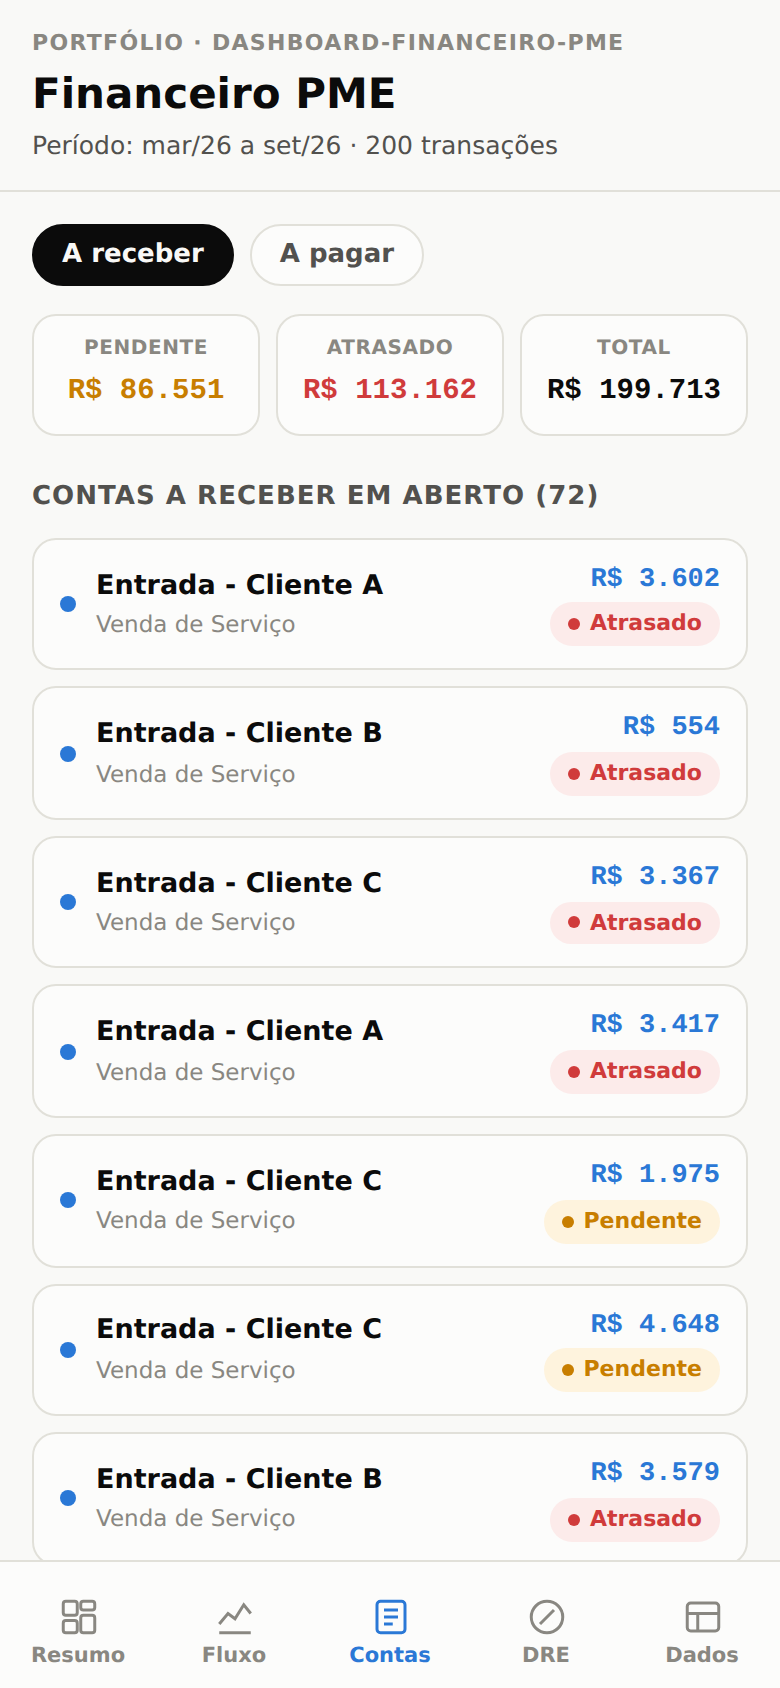
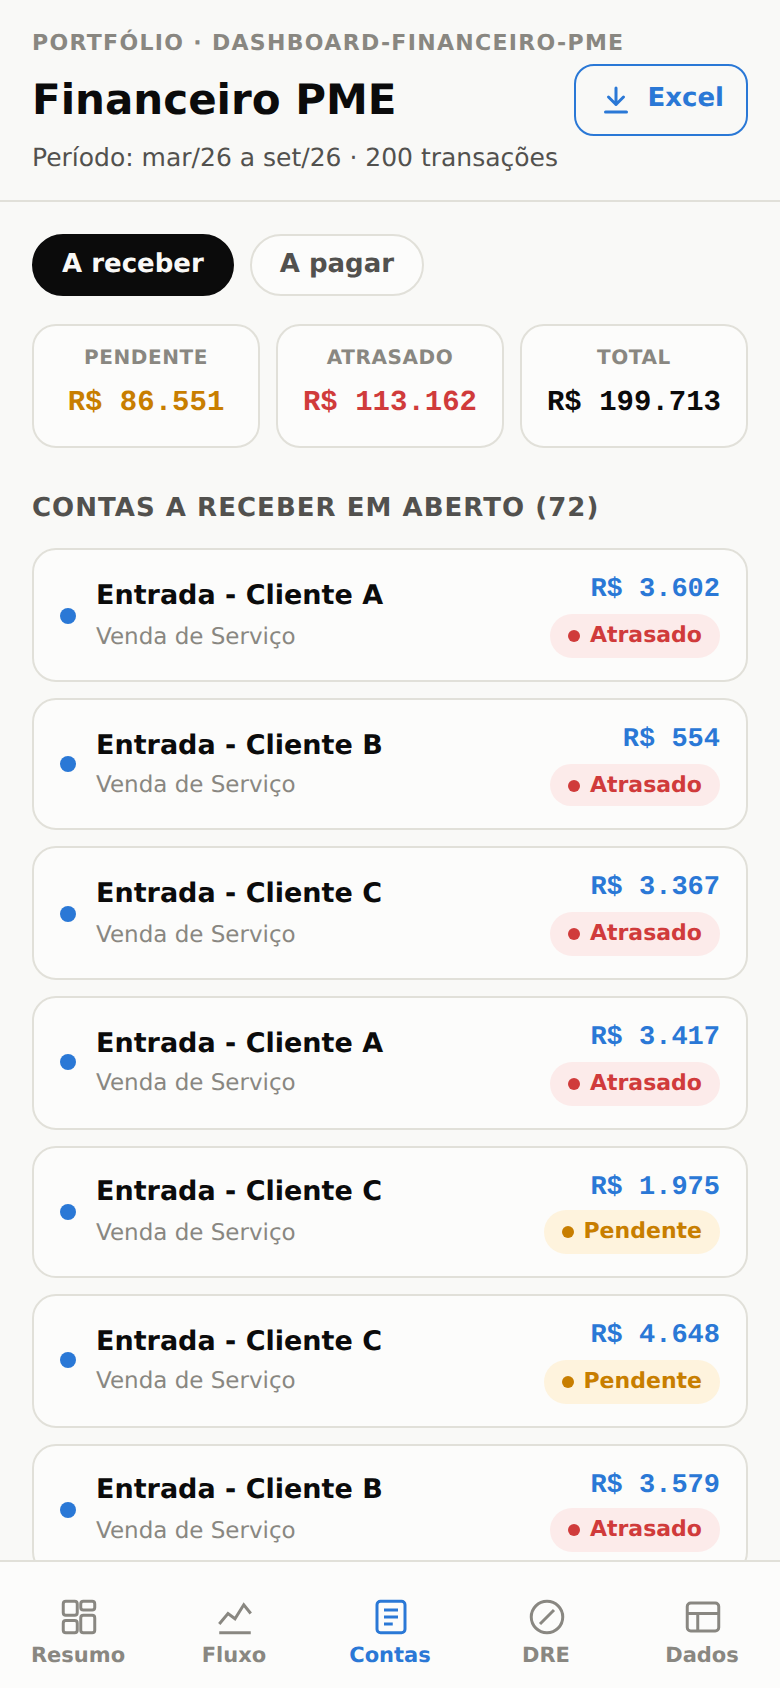
Adiciona botão pra baixar a planilha Excel no painel publicado
A planilha era uma das entregas principais, mas só existia no
repositório. Agora vai também pra public/ e o painel tem um botão
"Excel" no topo. Pra o CI continuar conferindo public/, a planilha passa
a ser gerada com datas fixas (idêntica a cada execução) e as versões de
pandas/openpyxl ficam fixadas. Screenshots e README atualizados.

Claude-Session: https://claude.ai/code/session_01SNGhJTcjeFguq5sm6ngrpK

diff --git a/public/index.html b/public/index.html
@@ -67,6 +67,14 @@
     color:var(--ink-muted); font-weight:600; margin-bottom:2px;
   }
   header.top h1{font-size:21px; font-weight:800;}
+  .titulo-linha{display:flex; align-items:center; justify-content:space-between; gap:10px; margin-top:2px;}
+  .baixar{
+    flex:none; display:inline-flex; align-items:center; gap:7px; text-decoration:none;
+    font:700 13px/1 var(--font-body); color:var(--blue);
+    border:1.5px solid var(--blue); border-radius:10px; padding:8px 11px;
+  }
+  .baixar:hover{background:var(--blue-soft);}
+  .baixar svg{width:18px; height:18px; stroke:currentColor; fill:none; stroke-width:2; stroke-linecap:round; stroke-linejoin:round;}
   header.top .period{font-size:12.5px; color:var(--ink-2); margin-top:2px;}
 
   section.view{padding:16px 16px 28px; max-width:640px; margin:0 auto;}
@@ -227,7 +235,14 @@
 
 <header class="top">
   <div class="eyebrow">Portfólio · dashboard-financeiro-pme</div>
-  <h1>Financeiro PME</h1>
+  <div class="titulo-linha">
+    <h1>Financeiro PME</h1>
+    <a class="baixar" href="dashboard_financeiro.xlsx" download
+       aria-label="Baixar a planilha Excel" title="Baixar a planilha Excel (fórmulas editáveis)">
+      <svg viewBox="0 0 24 24" aria-hidden="true"><path d="M12 4v11M7 10l5 5 5-5M5 20h14"/></svg>
+      <span>Excel</span>
+    </a>
+  </div>
   <div class="period" id="period-label">—</div>
 </header>
 

diff --git a/scripts/dashboard_template.html b/scripts/dashboard_template.html
@@ -67,6 +67,14 @@
     color:var(--ink-muted); font-weight:600; margin-bottom:2px;
   }
   header.top h1{font-size:21px; font-weight:800;}
+  .titulo-linha{display:flex; align-items:center; justify-content:space-between; gap:10px; margin-top:2px;}
+  .baixar{
+    flex:none; display:inline-flex; align-items:center; gap:7px; text-decoration:none;
+    font:700 13px/1 var(--font-body); color:var(--blue);
+    border:1.5px solid var(--blue); border-radius:10px; padding:8px 11px;
+  }
+  .baixar:hover{background:var(--blue-soft);}
+  .baixar svg{width:18px; height:18px; stroke:currentColor; fill:none; stroke-width:2; stroke-linecap:round; stroke-linejoin:round;}
   header.top .period{font-size:12.5px; color:var(--ink-2); margin-top:2px;}
 
   section.view{padding:16px 16px 28px; max-width:640px; margin:0 auto;}
@@ -227,7 +235,14 @@
 
 <header class="top">
   <div class="eyebrow">Portfólio · dashboard-financeiro-pme</div>
-  <h1>Financeiro PME</h1>
+  <div class="titulo-linha">
+    <h1>Financeiro PME</h1>
+    <a class="baixar" href="dashboard_financeiro.xlsx" download
+       aria-label="Baixar a planilha Excel" title="Baixar a planilha Excel (fórmulas editáveis)">
+      <svg viewBox="0 0 24 24" aria-hidden="true"><path d="M12 4v11M7 10l5 5 5-5M5 20h14"/></svg>
+      <span>Excel</span>
+    </a>
+  </div>
   <div class="period" id="period-label">—</div>
 </header>
 

diff --git a/scripts/gerar_dashboard.py b/scripts/gerar_dashboard.py
@@ -15,7 +15,12 @@ roda; para atualizá-las depois de uma mudança na base, é só rodar o script
 de novo (mesma lógica de reprodutibilidade dos outros dois scripts).
 """
 
+import io
 import os
+import re
+import shutil
+import zipfile
+from datetime import datetime
 
 import pandas as pd
 from openpyxl import Workbook
@@ -452,6 +457,26 @@ def montar_resumo(wb, meses, linha_total_fluxo, linha_resultado_dre):
     ws.merge_cells(start_row=28, start_column=1, end_row=28, end_column=9)
 
 
+def salvar_deterministico(wb, caminho):
+    """
+    Mesmos dados -> arquivo idêntico, byte a byte. O openpyxl carimba a
+    hora atual em cada arquivo interno do .xlsx (um zip) e na data de
+    "modificado"; fixar essas datas permite que o CI confira se a cópia
+    publicada em public/ está em dia com os dados.
+    """
+    wb.properties.created = wb.properties.modified = datetime(2026, 1, 1)
+    buffer = io.BytesIO()
+    wb.save(buffer)
+    with zipfile.ZipFile(buffer) as origem, zipfile.ZipFile(caminho, "w", zipfile.ZIP_DEFLATED) as destino:
+        for item in origem.infolist():
+            conteudo = origem.read(item.filename)
+            if item.filename == "docProps/core.xml":
+                conteudo = re.sub(rb"(<dcterms:modified[^>]*>)[^<]*", rb"\g<1>2026-01-01T00:00:00Z", conteudo)
+            info = zipfile.ZipInfo(item.filename, date_time=(2026, 1, 1, 0, 0, 0))
+            info.compress_type = zipfile.ZIP_DEFLATED
+            destino.writestr(info, conteudo)
+
+
 def main():
     csv_tratado, xlsx_saida = caminhos()
     df = pd.read_csv(csv_tratado, parse_dates=["data"])
@@ -485,7 +510,10 @@ def main():
     wb["Dados"].print_title_rows = "1:1"
 
     wb.active = 0
-    wb.save(xlsx_saida)
+    salvar_deterministico(wb, xlsx_saida)
+    # Cópia em public/ pro botão "Baixar planilha" do painel publicado.
+    publico = os.path.join(os.path.dirname(xlsx_saida), "..", "public", "dashboard_financeiro.xlsx")
+    shutil.copyfile(xlsx_saida, publico)
     print(f"Dashboard gerado com sucesso: {xlsx_saida}")
     print(f"Linhas de dados: {n_linhas} | Meses no fluxo de caixa: {len(meses)}")
 

diff --git a/README.md b/README.md
@@ -47,8 +47,9 @@ que ele realmente chega de um sistema real.
 │   └── dashboard_template.html -> esqueleto HTML/CSS/JS usado pelo script acima
 ├── dashboard/
 │   └── dashboard_financeiro.xlsx -> dashboard gerencial (Resumo, Fluxo Mensal, Contas a Pagar/Receber, DRE)
-└── public/
-    └── index.html      -> versão HTML (mobile) do dashboard — é o que o Vercel publica (Root Directory = public)
+└── public/             -> o que o Vercel publica (Root Directory = public)
+    ├── index.html                -> versão HTML (mobile) do dashboard
+    └── dashboard_financeiro.xlsx -> cópia da planilha, pro botão "Excel" do painel
 ```
 
 ## O cenário simulado
@@ -113,7 +114,8 @@ Linhas na base final tratada:       200
 ## O dashboard (Excel)
 
 Gerado por `scripts/gerar_dashboard.py` a partir de `transacoes_tratadas.csv`,
-em `dashboard/dashboard_financeiro.xlsx`, com 5 abas:
+em `dashboard/dashboard_financeiro.xlsx` — e dá pra baixar direto do painel
+publicado, pelo botão **Excel** no topo da página. Tem 5 abas:
 
 - **Resumo** — capa com KPIs (recebido, pago, saldo de caixa, contas a
   receber/pagar em aberto, resultado líquido) e o gráfico de fluxo de caixa
